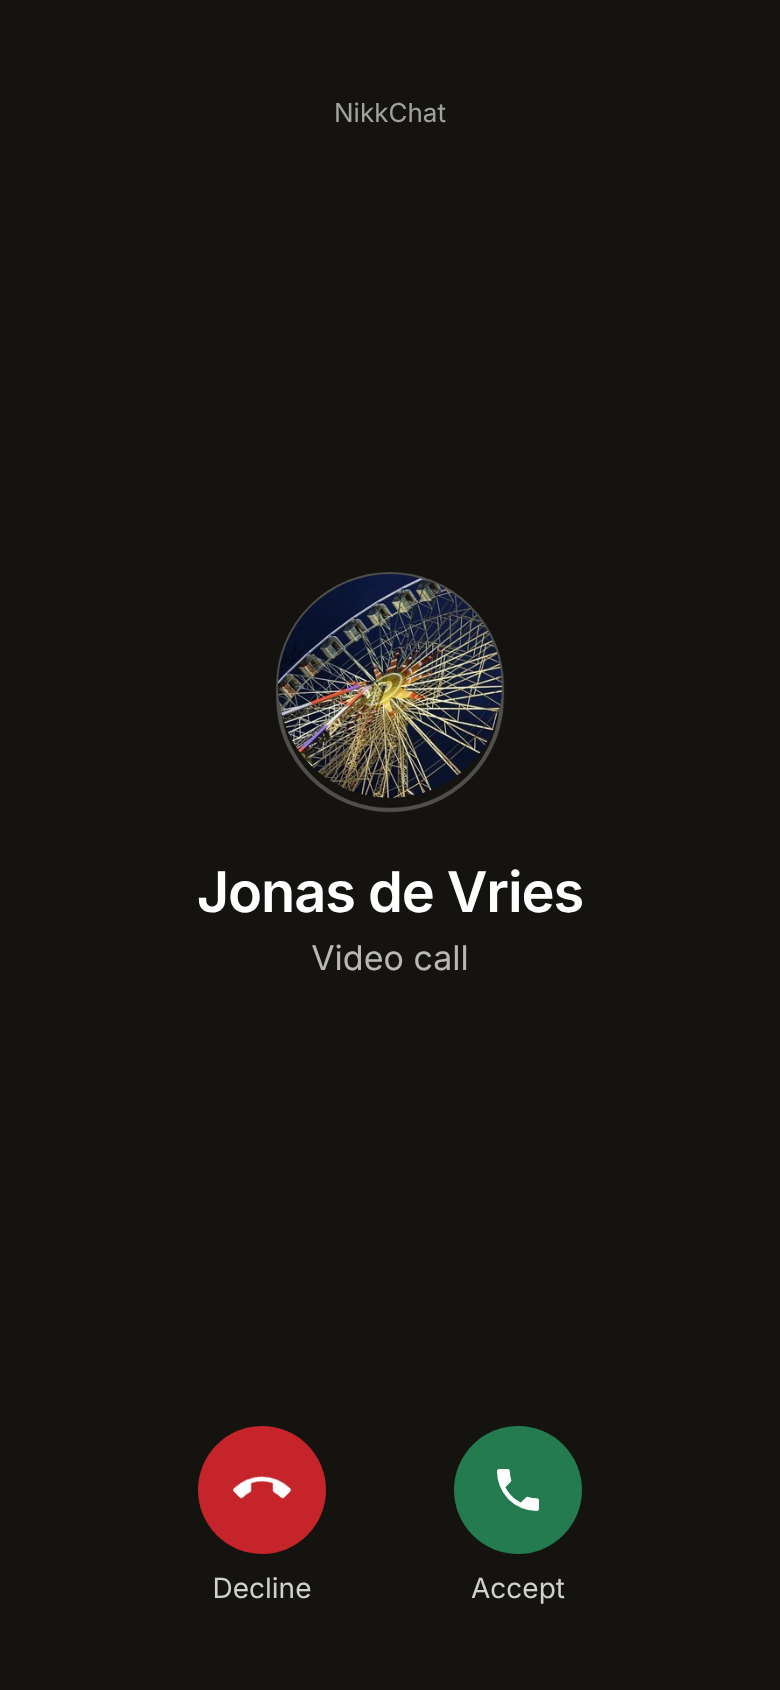
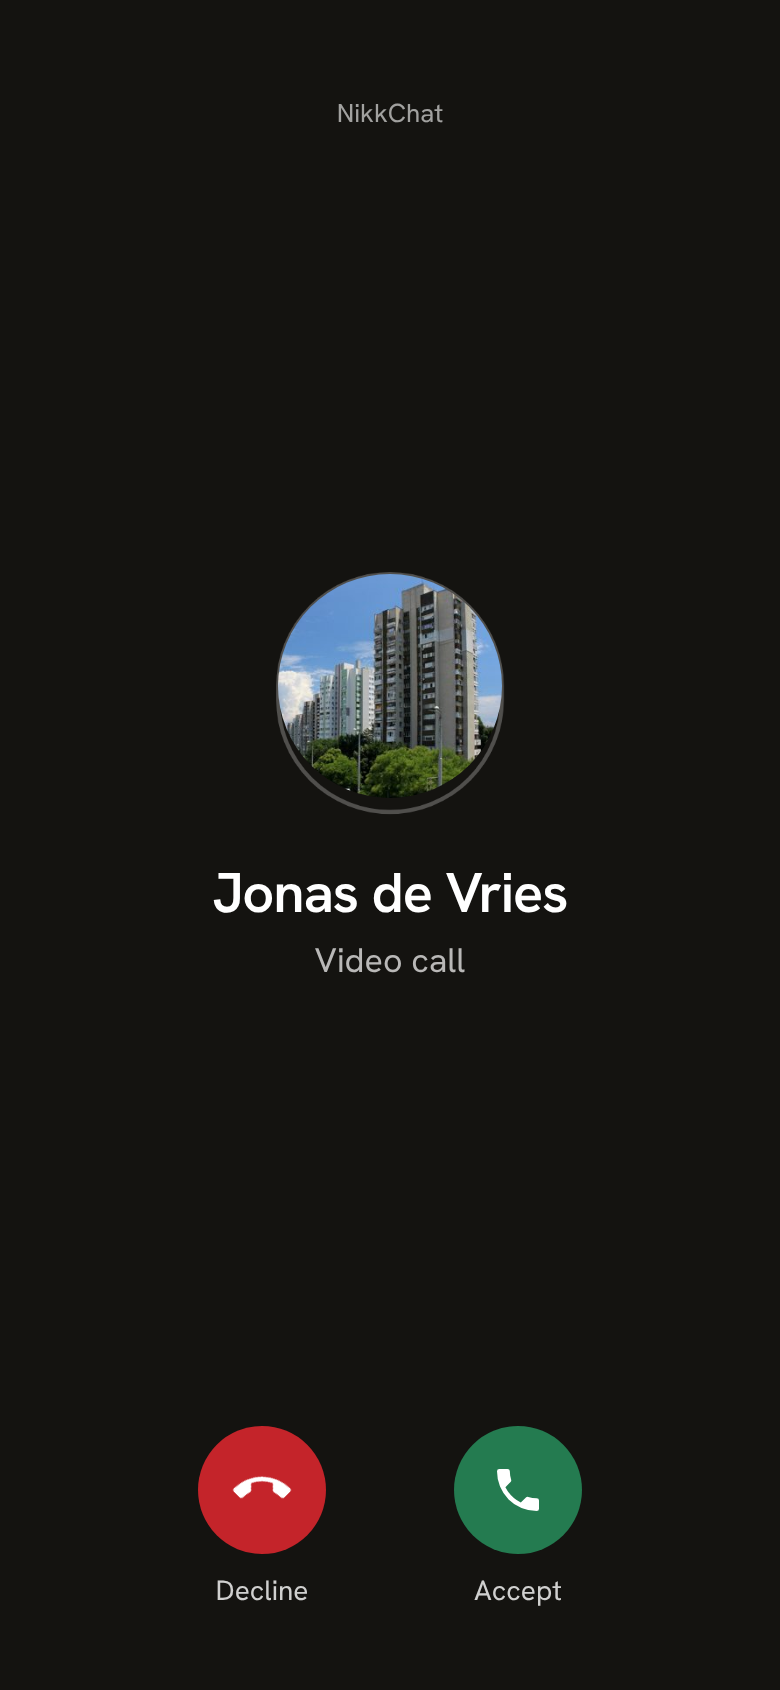
Screenshots: new homepage hero, neutral sample names, accurate photo credits
The homepage capture and the preview card show the lit-windows hero. The
app captures were taken again from the current sample data, whose people
are now Maya Lind, Jonas, Ana, Marco, Sophie, Yusuf and Lena.

The photo table listed pictures that are no longer in the captures. It now
lists the six that are, with their licences and the files they appear in.

diff --git a/screenshots/README.md b/screenshots/README.md
@@ -18,21 +18,18 @@ Phone captures are 780 x 1690 (a 390 x 845 viewport at 2x).
 
 ## Photos inside the captures
 
-The sample photos are public-domain (CC0) images, cropped. Thank you to the people who
-shared them:
+The sample photos are free-licensed pictures, cropped or resized. Thank you to the people
+who shared them:
 
-| Photo | By |
-|---|---|
-| [Sunset over the sea near Sozopol 1](https://commons.wikimedia.org/wiki/File:Sunset_over_the_sea_near_Sozopol_1.jpg) | Ivano Giambattista |
-| [View from the shores near Sozopol](https://wordpress.org/photos/photo/87063d1d15/) | Nick Krastev |
-| [Ferris wheel night](https://www.rawpixel.com/image/3286001/free-photo-image-france-amusement-park-cc0) | rawpixel |
-| [London Night Sky Tower Blocks](https://commons.wikimedia.org/w/index.php?curid=71318382) | Stephan Guttinger |
+| Photo | By | Licence | Seen in |
+|---|---|---|---|
+| [Window Front at Night](https://commons.wikimedia.org/wiki/File:Window_Front_at_Night_374889.jpg) | Matthew Henry | [CC0](https://creativecommons.org/publicdomain/zero/1.0/) | `site-home.png`, `brand/social-preview.png` (printed in one colour) |
+| [Ferris wheel night](https://www.rawpixel.com/image/3286001/free-photo-image-france-amusement-park-cc0) | rawpixel | [CC0](https://creativecommons.org/publicdomain/zero/1.0/) | `site-home.png`, `brand/social-preview.png` |
+| [London Night Sky Tower Blocks](https://commons.wikimedia.org/w/index.php?curid=71318382) | Stephan Guttinger | [CC0](https://creativecommons.org/publicdomain/zero/1.0/) | `site-home.png`, `02-chat.png`, `app-desktop.png` |
+| [Apartment towers](https://commons.wikimedia.org/w/index.php?curid=71141807) | Liilia Moroz | [CC BY-SA 4.0](https://creativecommons.org/licenses/by-sa/4.0/) | `01-home.png`, `02-chat.png`, `03-call.png`, `app-desktop.png` |
+| [River at dusk](https://commons.wikimedia.org/wiki/File:Moscow,_Maryino_District_and_Moskva_River_at_night,_Dusk_afterglow,_Twilight,_Russia.jpg) | Vyacheslav Argenberg | [CC BY 4.0](https://creativecommons.org/licenses/by/4.0/) | `04-collections.png`, `05-profile.png` |
+| [Montag-Abend im Block](https://www.flickr.com/photos/93212986@N03/31129456156) | Casey Hugelfink | [CC BY-SA 2.0](https://creativecommons.org/licenses/by-sa/2.0/) | `04-collections.png` |
 
-The homepage capture also shows
-[Night Panorama of Burgas](https://commons.wikimedia.org/wiki/File:Night_Panorama_of_Burgas.jpg)
-by Nasomatrix at Bulgarian Wikipedia,
-[CC BY-SA 3.0](https://creativecommons.org/licenses/by-sa/3.0/), cropped and printed in one
-colour. `site-home.png` and `brand/social-preview.png` include that adaptation and are
-shared under the same licence.
+The captures that show a CC BY-SA photo are shared under that photo's licence.
 
 Everything else in the captures is NikkChat's own interface.

diff --git a/README.md b/README.md
@@ -33,7 +33,7 @@ It is **not end-to-end encrypted**, and nothing here says it is. What is protect
 what isn't yet, is written down in [`docs/SECURITY.md`](docs/SECURITY.md) and on
 [nikkchat.com/security](https://nikkchat.com/security).
 
-<img src="screenshots/site-home.png" alt="The nikkchat.com homepage: the headline Chat without an app store above a working chat with Jonas, in front of Burgas at night printed in blue" />
+<img src="screenshots/site-home.png" alt="The nikkchat.com homepage: the headline Chat without an app store above a working chat with Jonas, in front of rows of lit windows printed in blue" />
 
 ## Screenshots
 
